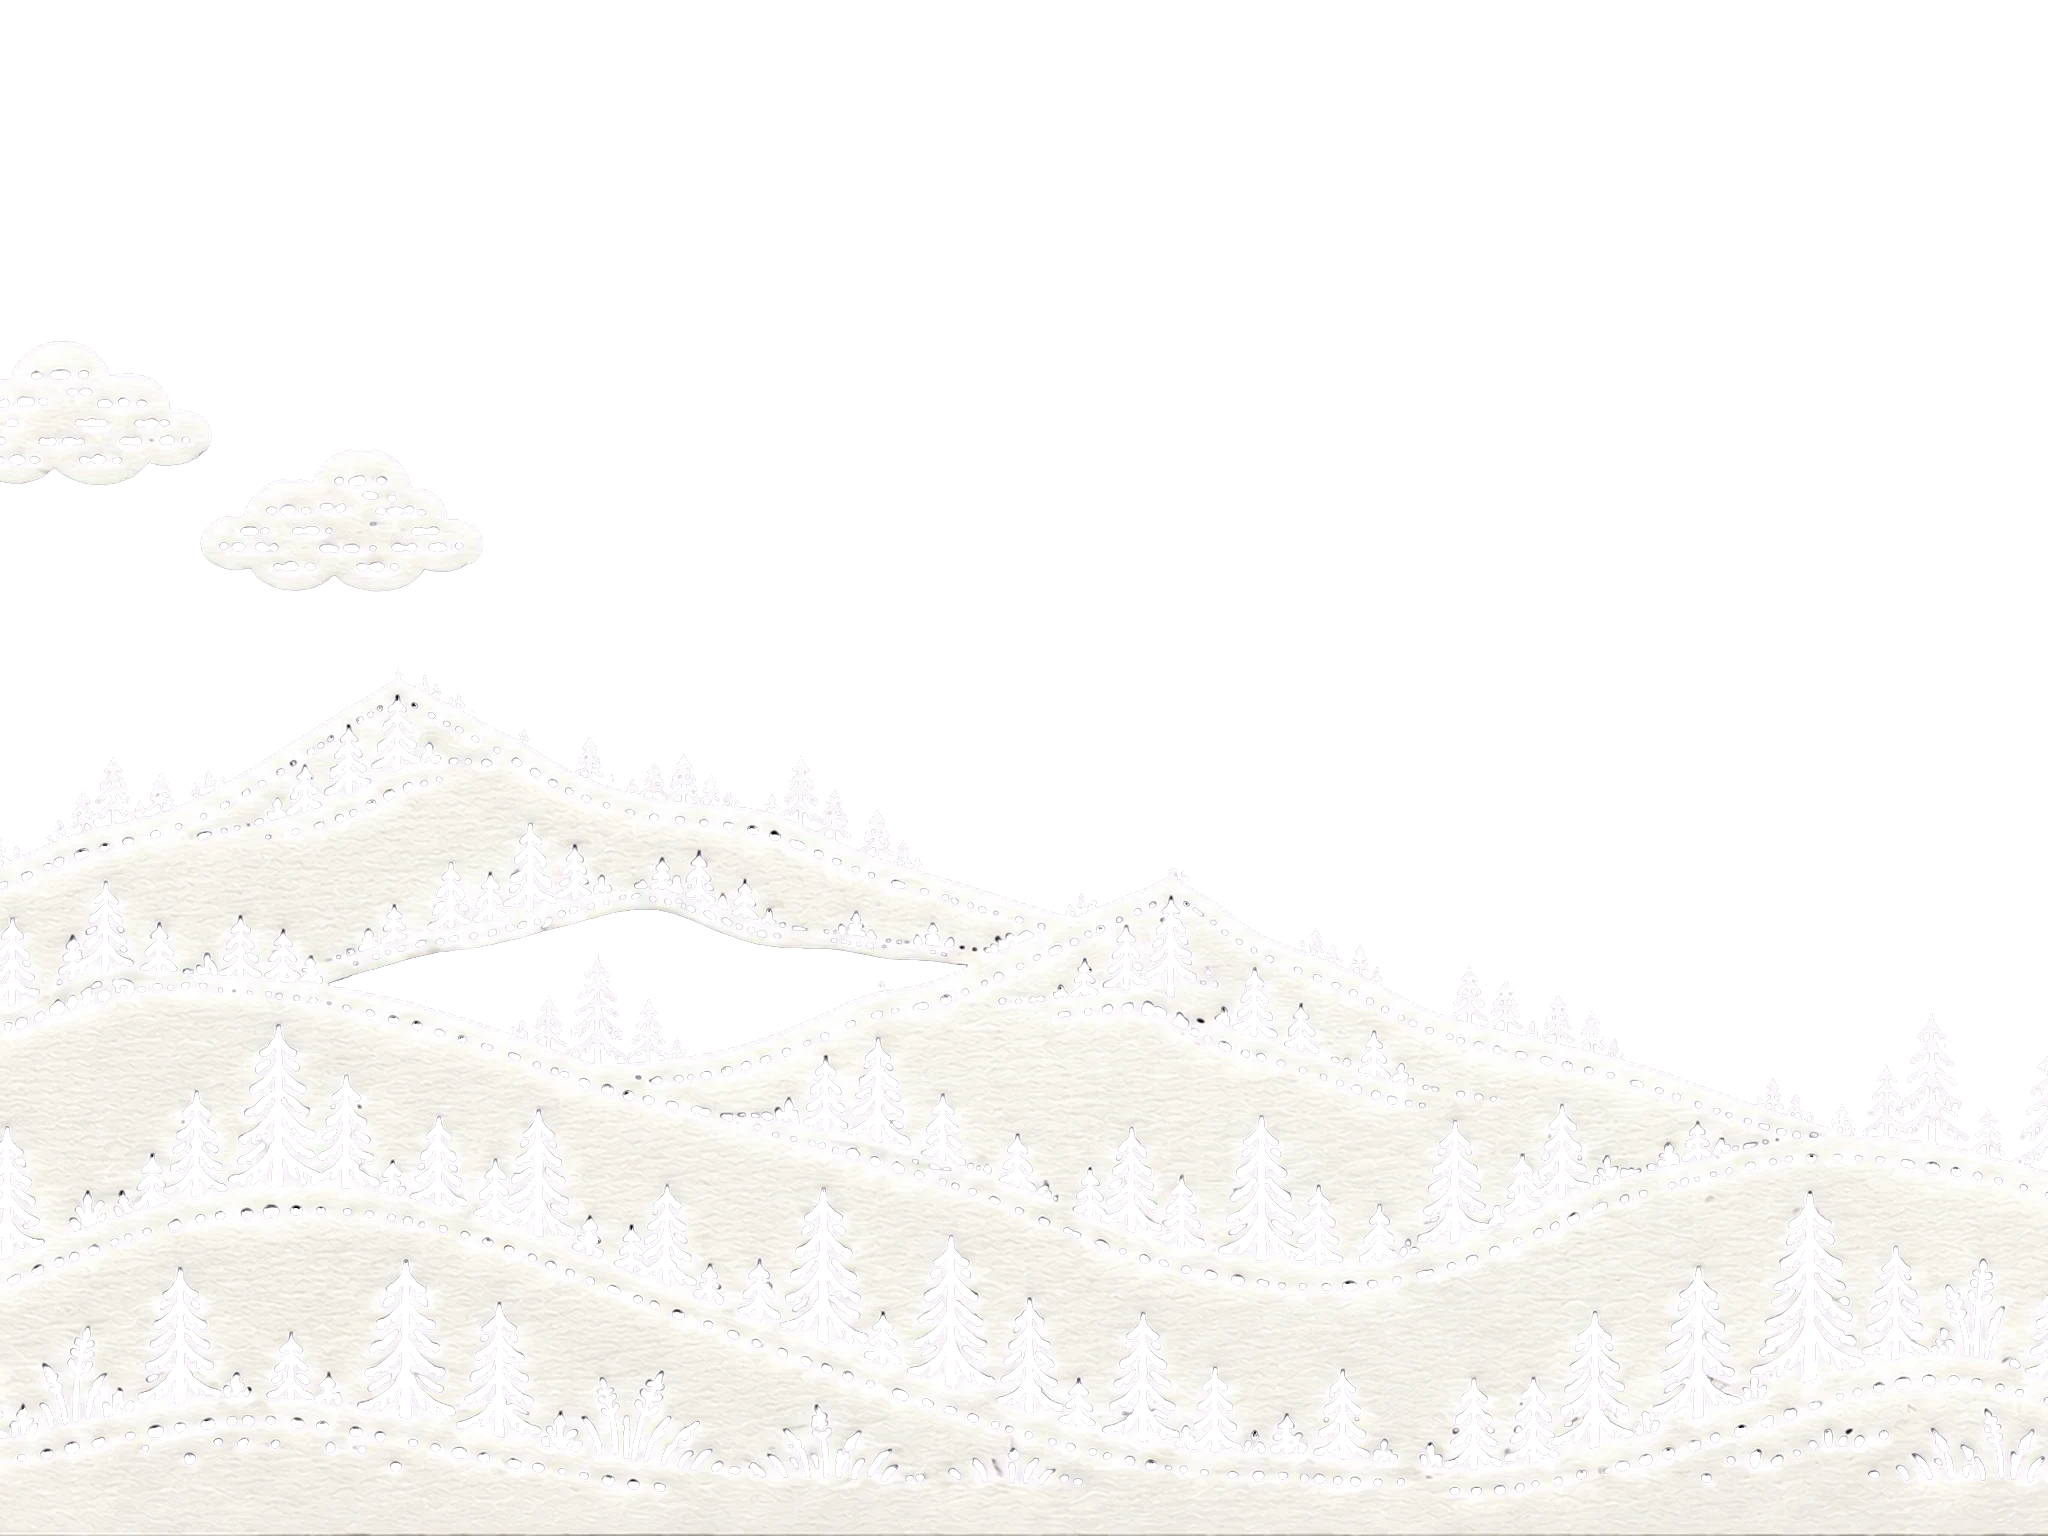
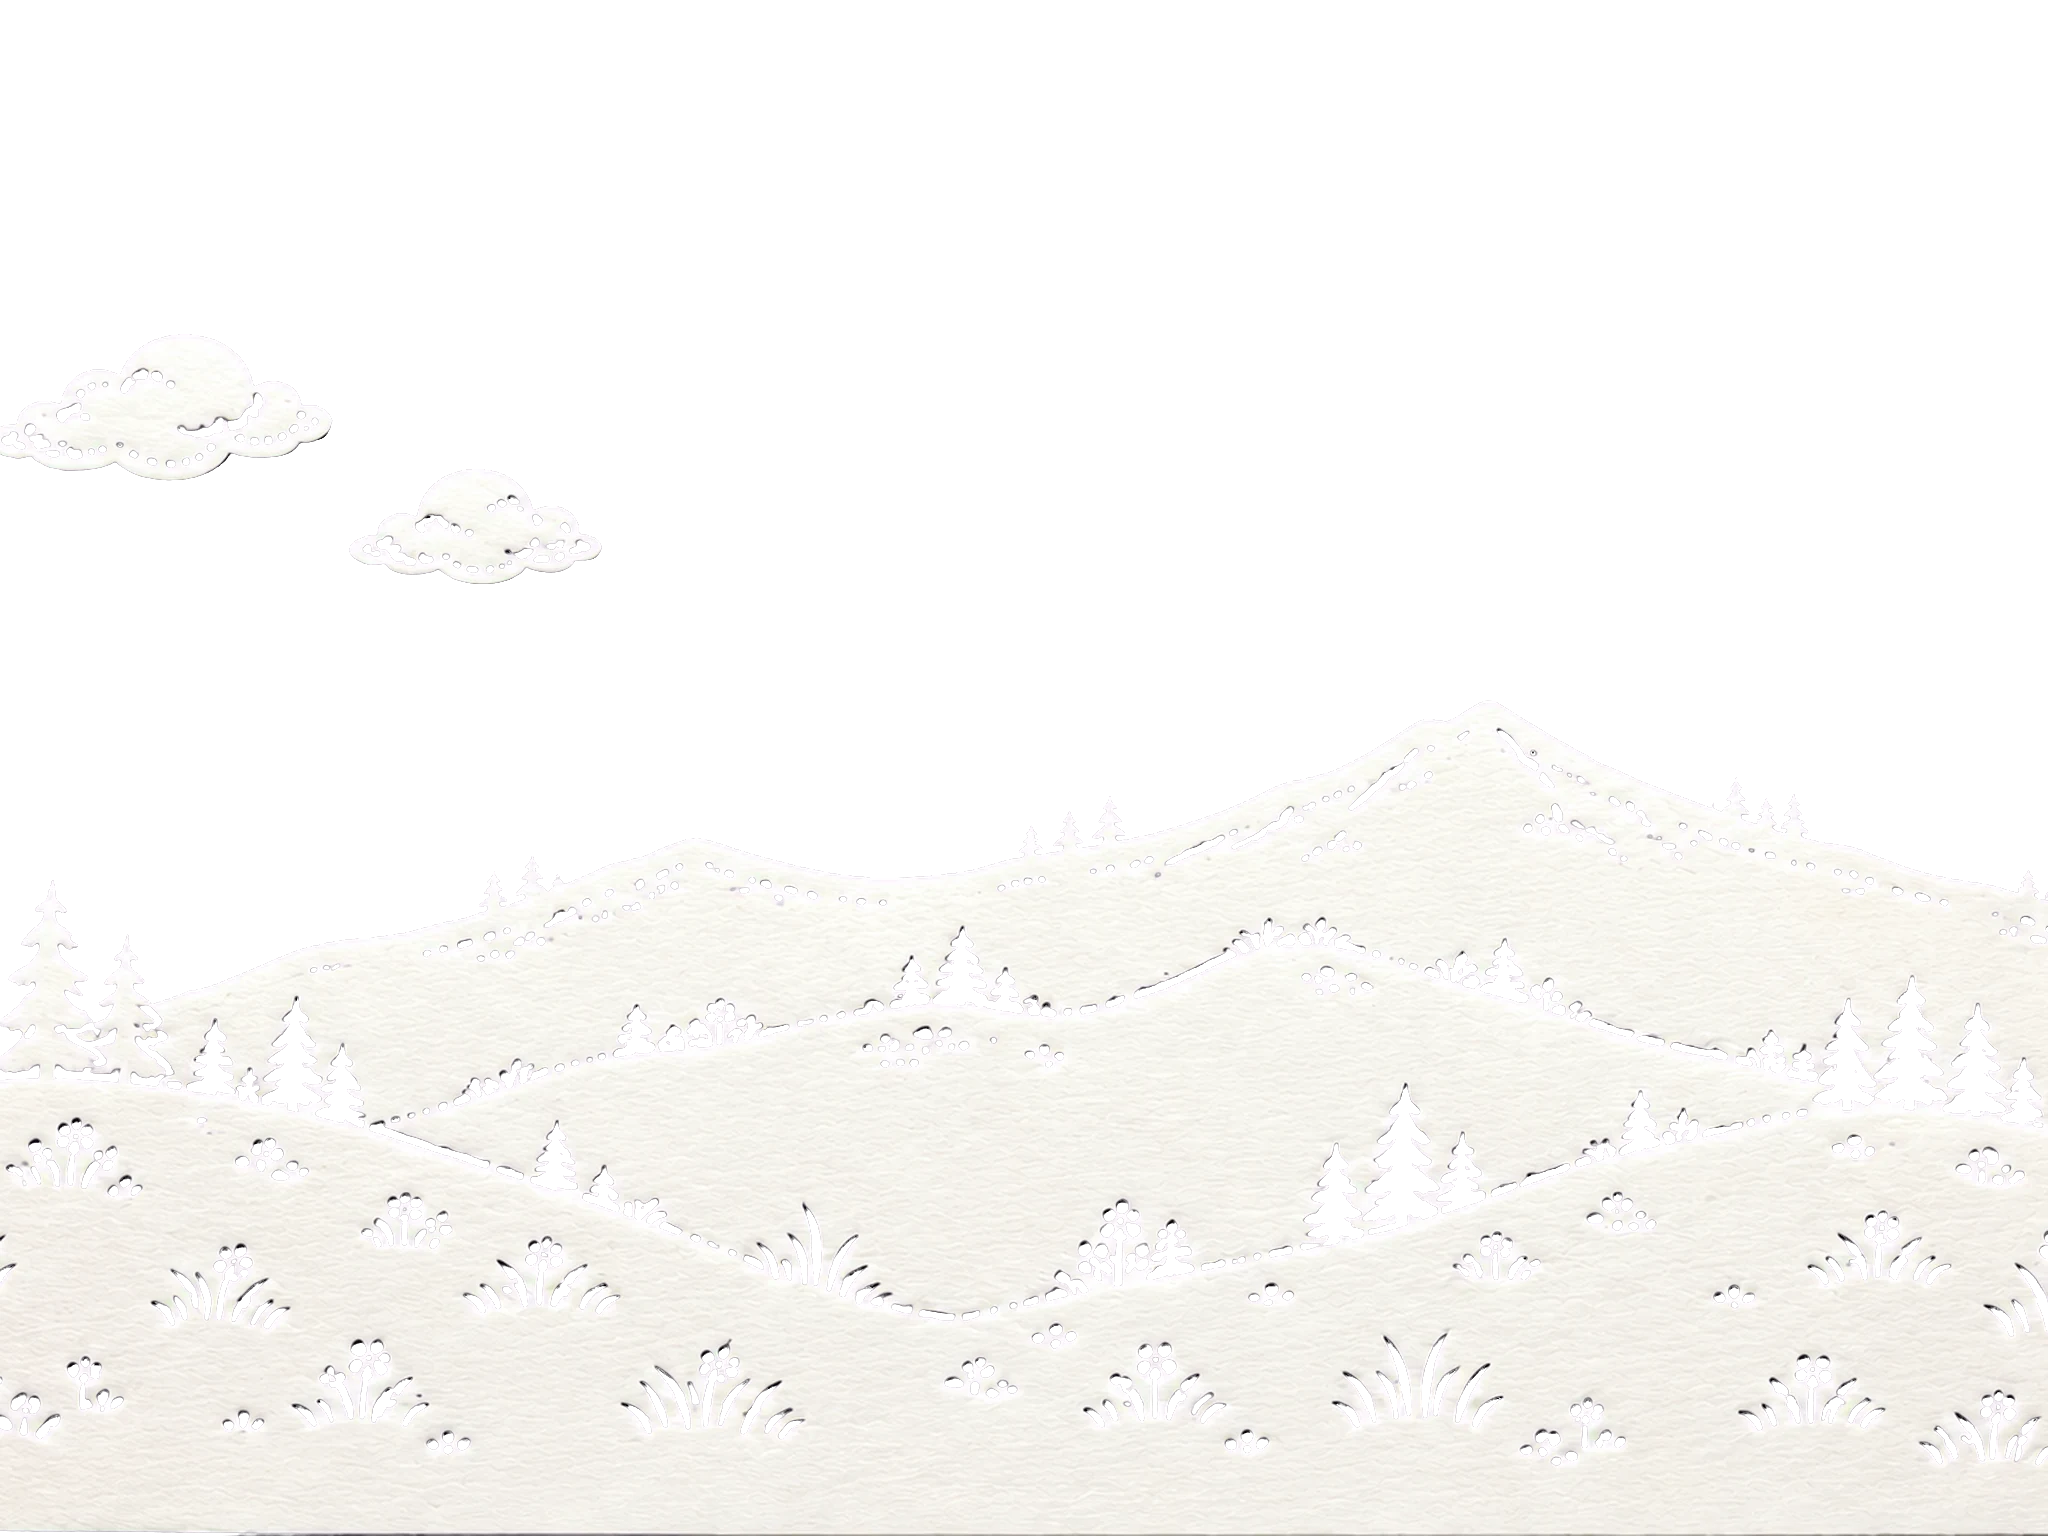
village 상자를 6층으로 시범: 산 두 겹, 집과 언덕 분리
집·나무·언덕이 한 장이라 같은 밝기로 뭉치던 것을 나눠 뒤에서 앞으로 어두워지게 했다.
엔진에 far2·ground 층을 더하고, gen_art.py 에 구도 맞춤(fit)을 더했다.

Claude-Session: https://claude.ai/code/session_01BY9Nwc7zu1V8nCRQksmbNf

diff --git a/engine/lightbox.js b/engine/lightbox.js
@@ -14,7 +14,7 @@
     snow:         { c1: '#5a6fa8', c2: '#dfe8f5', glow: '#ffffff' },
   };
   const LAYERS = [ // 이름, 기본 어둡기, 시차(px), 확대
-    ['far', .2, 4, 1], ['mid', .52, 8, 1], ['dolls', .82, 11, 1], ['near', .8, 15, 1], ['fx', 0, 0, 1], ['frame', .92, 22, 1.06],
+    ['far', .2, 4, 1], ['far2', .36, 6, 1], ['mid', .52, 8, 1], ['ground', .68, 10, 1], ['dolls', .82, 11, 1], ['near', .8, 15, 1], ['fx', 0, 0, 1], ['frame', .92, 22, 1.06],
   ];
   const BASE = (document.currentScript && document.currentScript.src.replace(/engine\/lightbox\.js.*$/, '')) || './';
   const url = p => BASE + p;

diff --git a/tools/gen_art.py b/tools/gen_art.py
@@ -39,7 +39,7 @@ def generate(job, raw):
         raise RuntimeError(txt[-400:])
 
 
-def key(raw, out, doll=False):
+def key(raw, out, doll=False, fit=None):
     """마젠타 정도(min(R,B)-G)로 알파를 만든다. 종이는 흰색뿐이라 남은 색 번짐은 무채색으로 되돌린다."""
     im = Image.open(raw).convert('RGB')
     w, h = im.size
@@ -66,6 +66,12 @@ def key(raw, out, doll=False):
         moved = Image.new('RGBA', pic.size, (0, 0, 0, 0))
         moved.paste(pic, (0, pic.size[1] - y1))
         pic = moved
+    if fit:  # 그림을 줄여 가운데에, 아래 끝을 화면 아래에서 base 높이에 둔다(이미지 생성이 구도를 못 지킬 때)
+        small = pic.crop(pic.getchannel('A').point(lambda v: 255 if v > 128 else 0).getbbox())
+        small = small.resize((int(small.width * fit['scale']), int(small.height * fit['scale'])), Image.LANCZOS)
+        moved = Image.new('RGBA', pic.size, (0, 0, 0, 0))
+        moved.paste(small, ((pic.width - small.width) // 2, int(pic.height * (1 - fit['base'])) - small.height))
+        pic = moved
     pic.save(out, 'WEBP', quality=88, alpha_quality=95, method=6)
     print(f'{out}: 투명 {100 * (alpha == 0).mean():.0f}%, {os.path.getsize(out) // 1024}KB', flush=True)
 
@@ -79,7 +85,7 @@ def main():
         if os.path.exists(out): print('skip', job['id']); continue
         try:
             if not os.path.exists(raw): generate(job, raw)
-            key(raw, out, job.get('kind') == 'doll')
+            key(raw, out, job.get('kind') == 'doll', job.get('fit'))
         except Exception as e:
             print(job['id'], 'FAIL', e, flush=True)
 

diff --git a/docs/STAGE_FORMAT.md b/docs/STAGE_FORMAT.md
@@ -33,7 +33,7 @@
 ```
 
 ### 필드
-- `boxes.*.layers`: 흰 종이 층 그림. `far · mid · near · frame` 중 필요한 것만. 크기는 모두 4:3(2048×1536), 알파 포함, 색 없음.
+- `boxes.*.layers`: 흰 종이 층 그림. 뒤에서 앞으로 `far · far2 · mid · ground · near · frame` 중 필요한 것만(`far2`·`ground` 는 6층 시범, `village` 만 사용 중: `far2` = 가까운 산, `mid` = 집·나무만, `ground` = 인형이 서는 낮은 언덕). 크기는 모두 4:3(2048×1536), 알파 포함, 색 없음.
 - `boxes.*.dk`: 불 켜졌을 때 층 어둡기(0=빛 그대로, 1=검정). 없으면 기본값(PLAN.md §5-2 표). 상자마다 조정 가능.
 - `boxes.*.glowAt`: 광원(달·해·등불) 중심, 무대 % 좌표. 꺼졌을 때 그 자리에 흰 달 원판이 보인다(시안 `.moon-off`).
 - `boxes.*.fx`: `fireflies`(기본) · `snow` · `bubbles` · `stars` · `none`.

diff --git a/docs/DESIGN_PLAN.md b/docs/DESIGN_PLAN.md
@@ -131,4 +131,6 @@
 3. **불 켜기 단계를 없앤다.** 적용함. 고르기와 시작을 하나로 합치는 개편(§4)은 아직이다.
 4. **광원은 뒤판 전체.** 달·해는 오린 구멍처럼 보이게 고침. 시안만큼 빛이 뚫고 나오려면 그림에 구멍이 더 필요하다.
 
+5. **층을 늘려 깊이를 만든다(시범).** `village` 만 6층. 나머지 상자로 넓힐지는 시범을 본 뒤 정한다.
+
 아직 미정: 그림 없는 3편을 시범판에서 숨길지.
